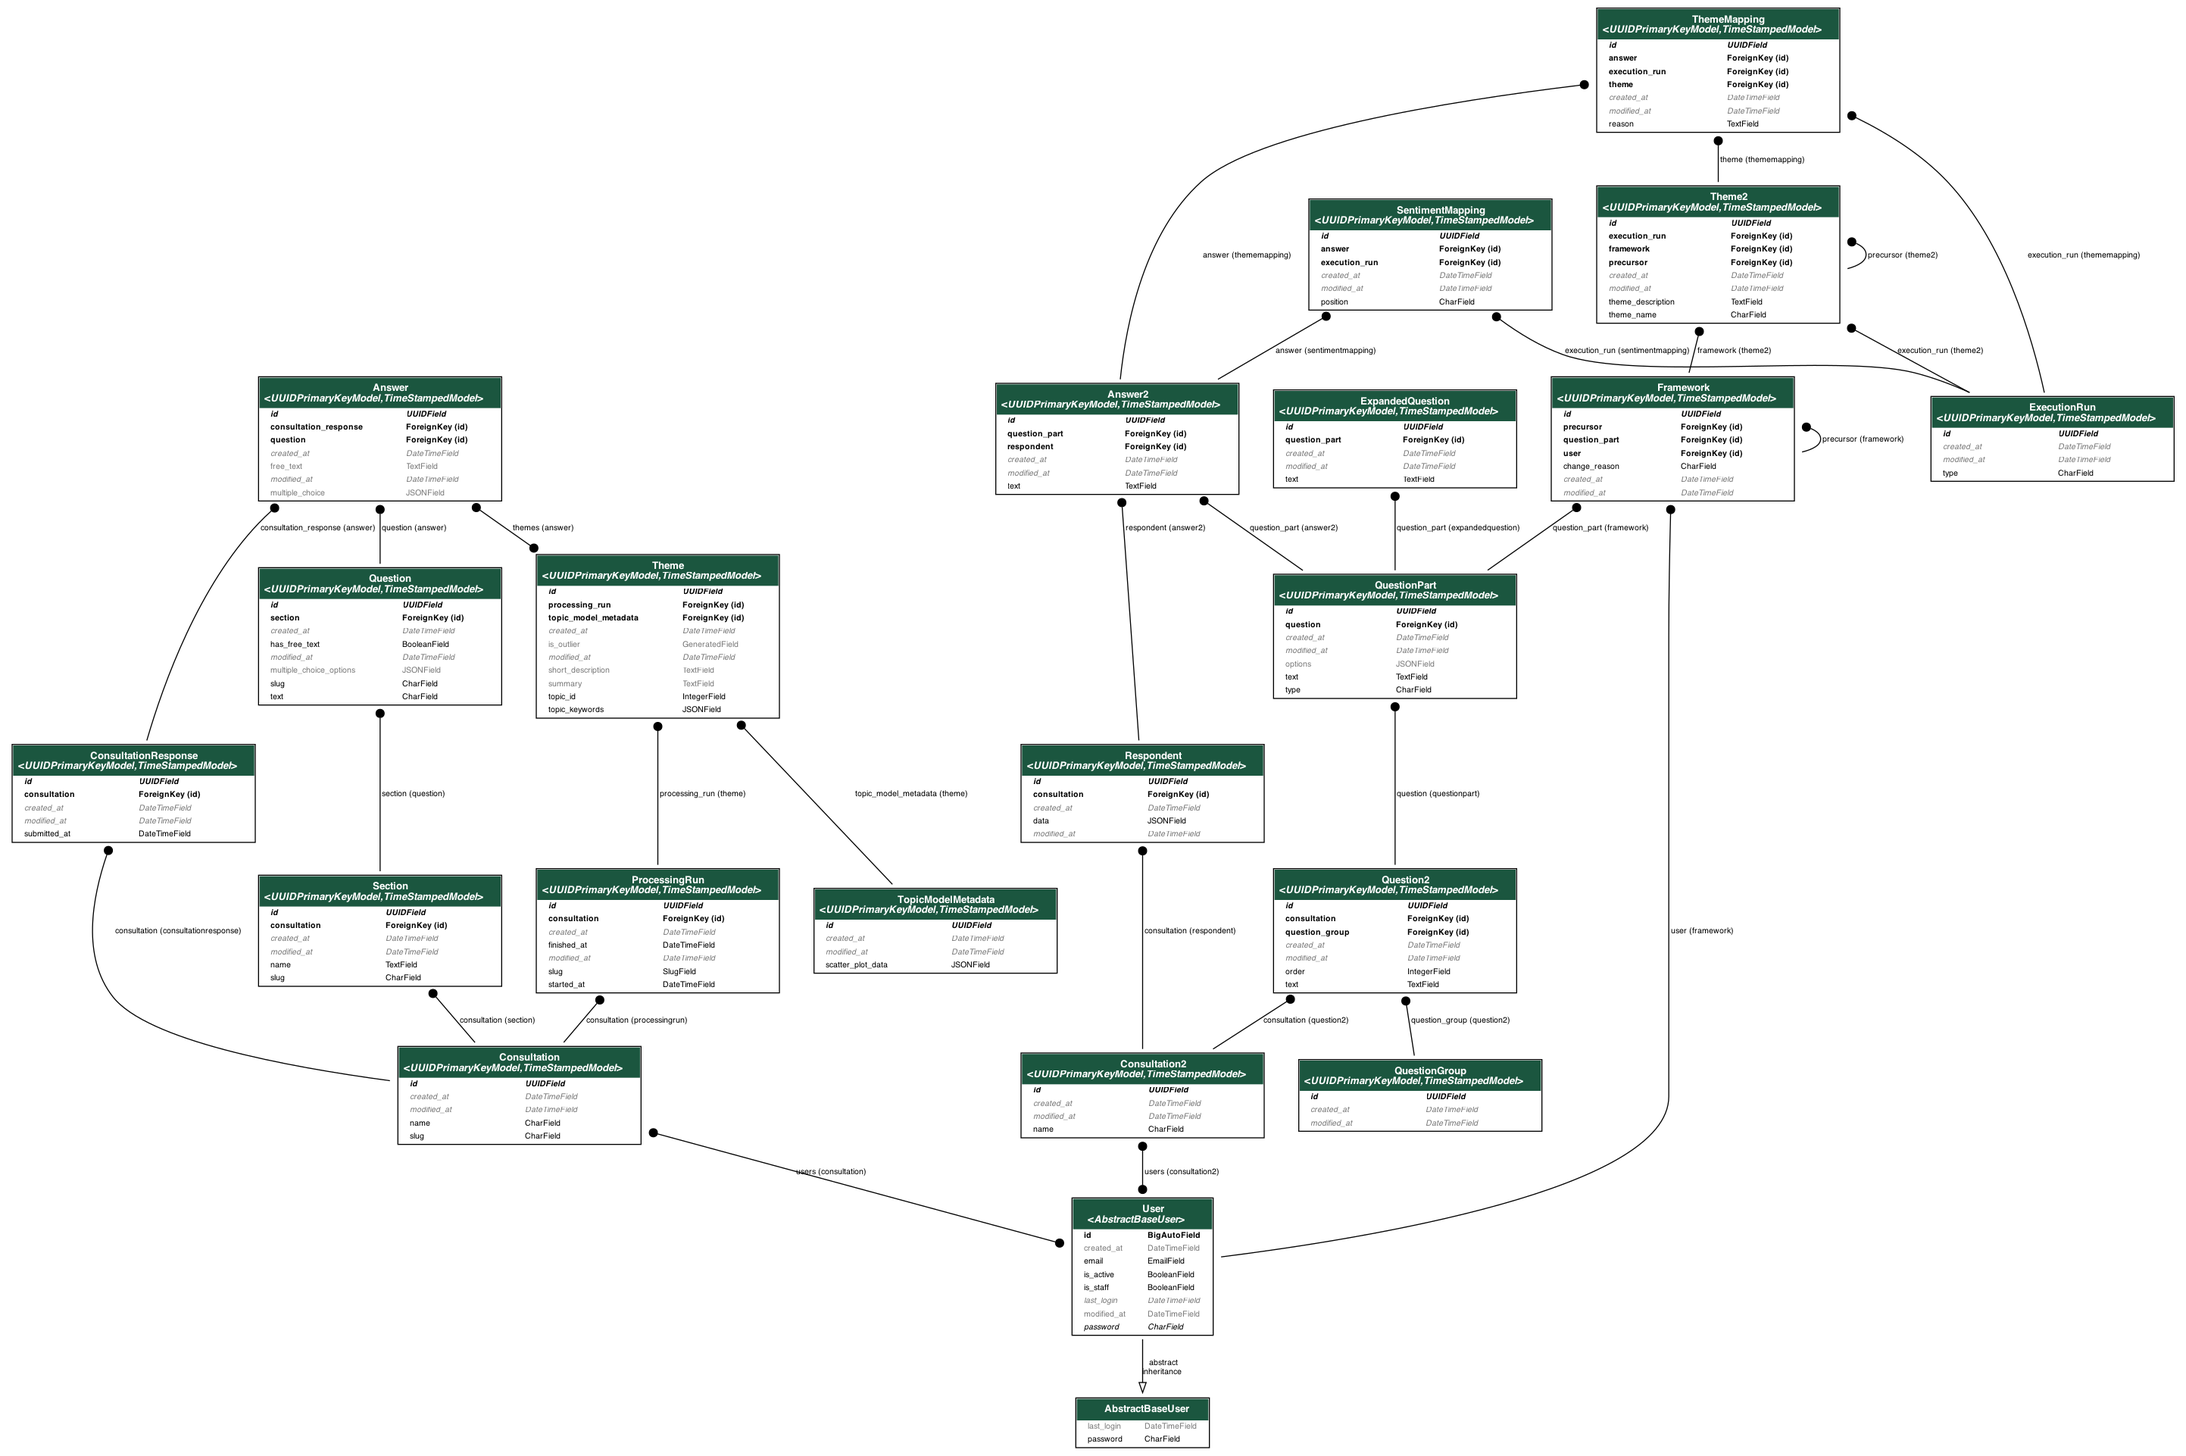
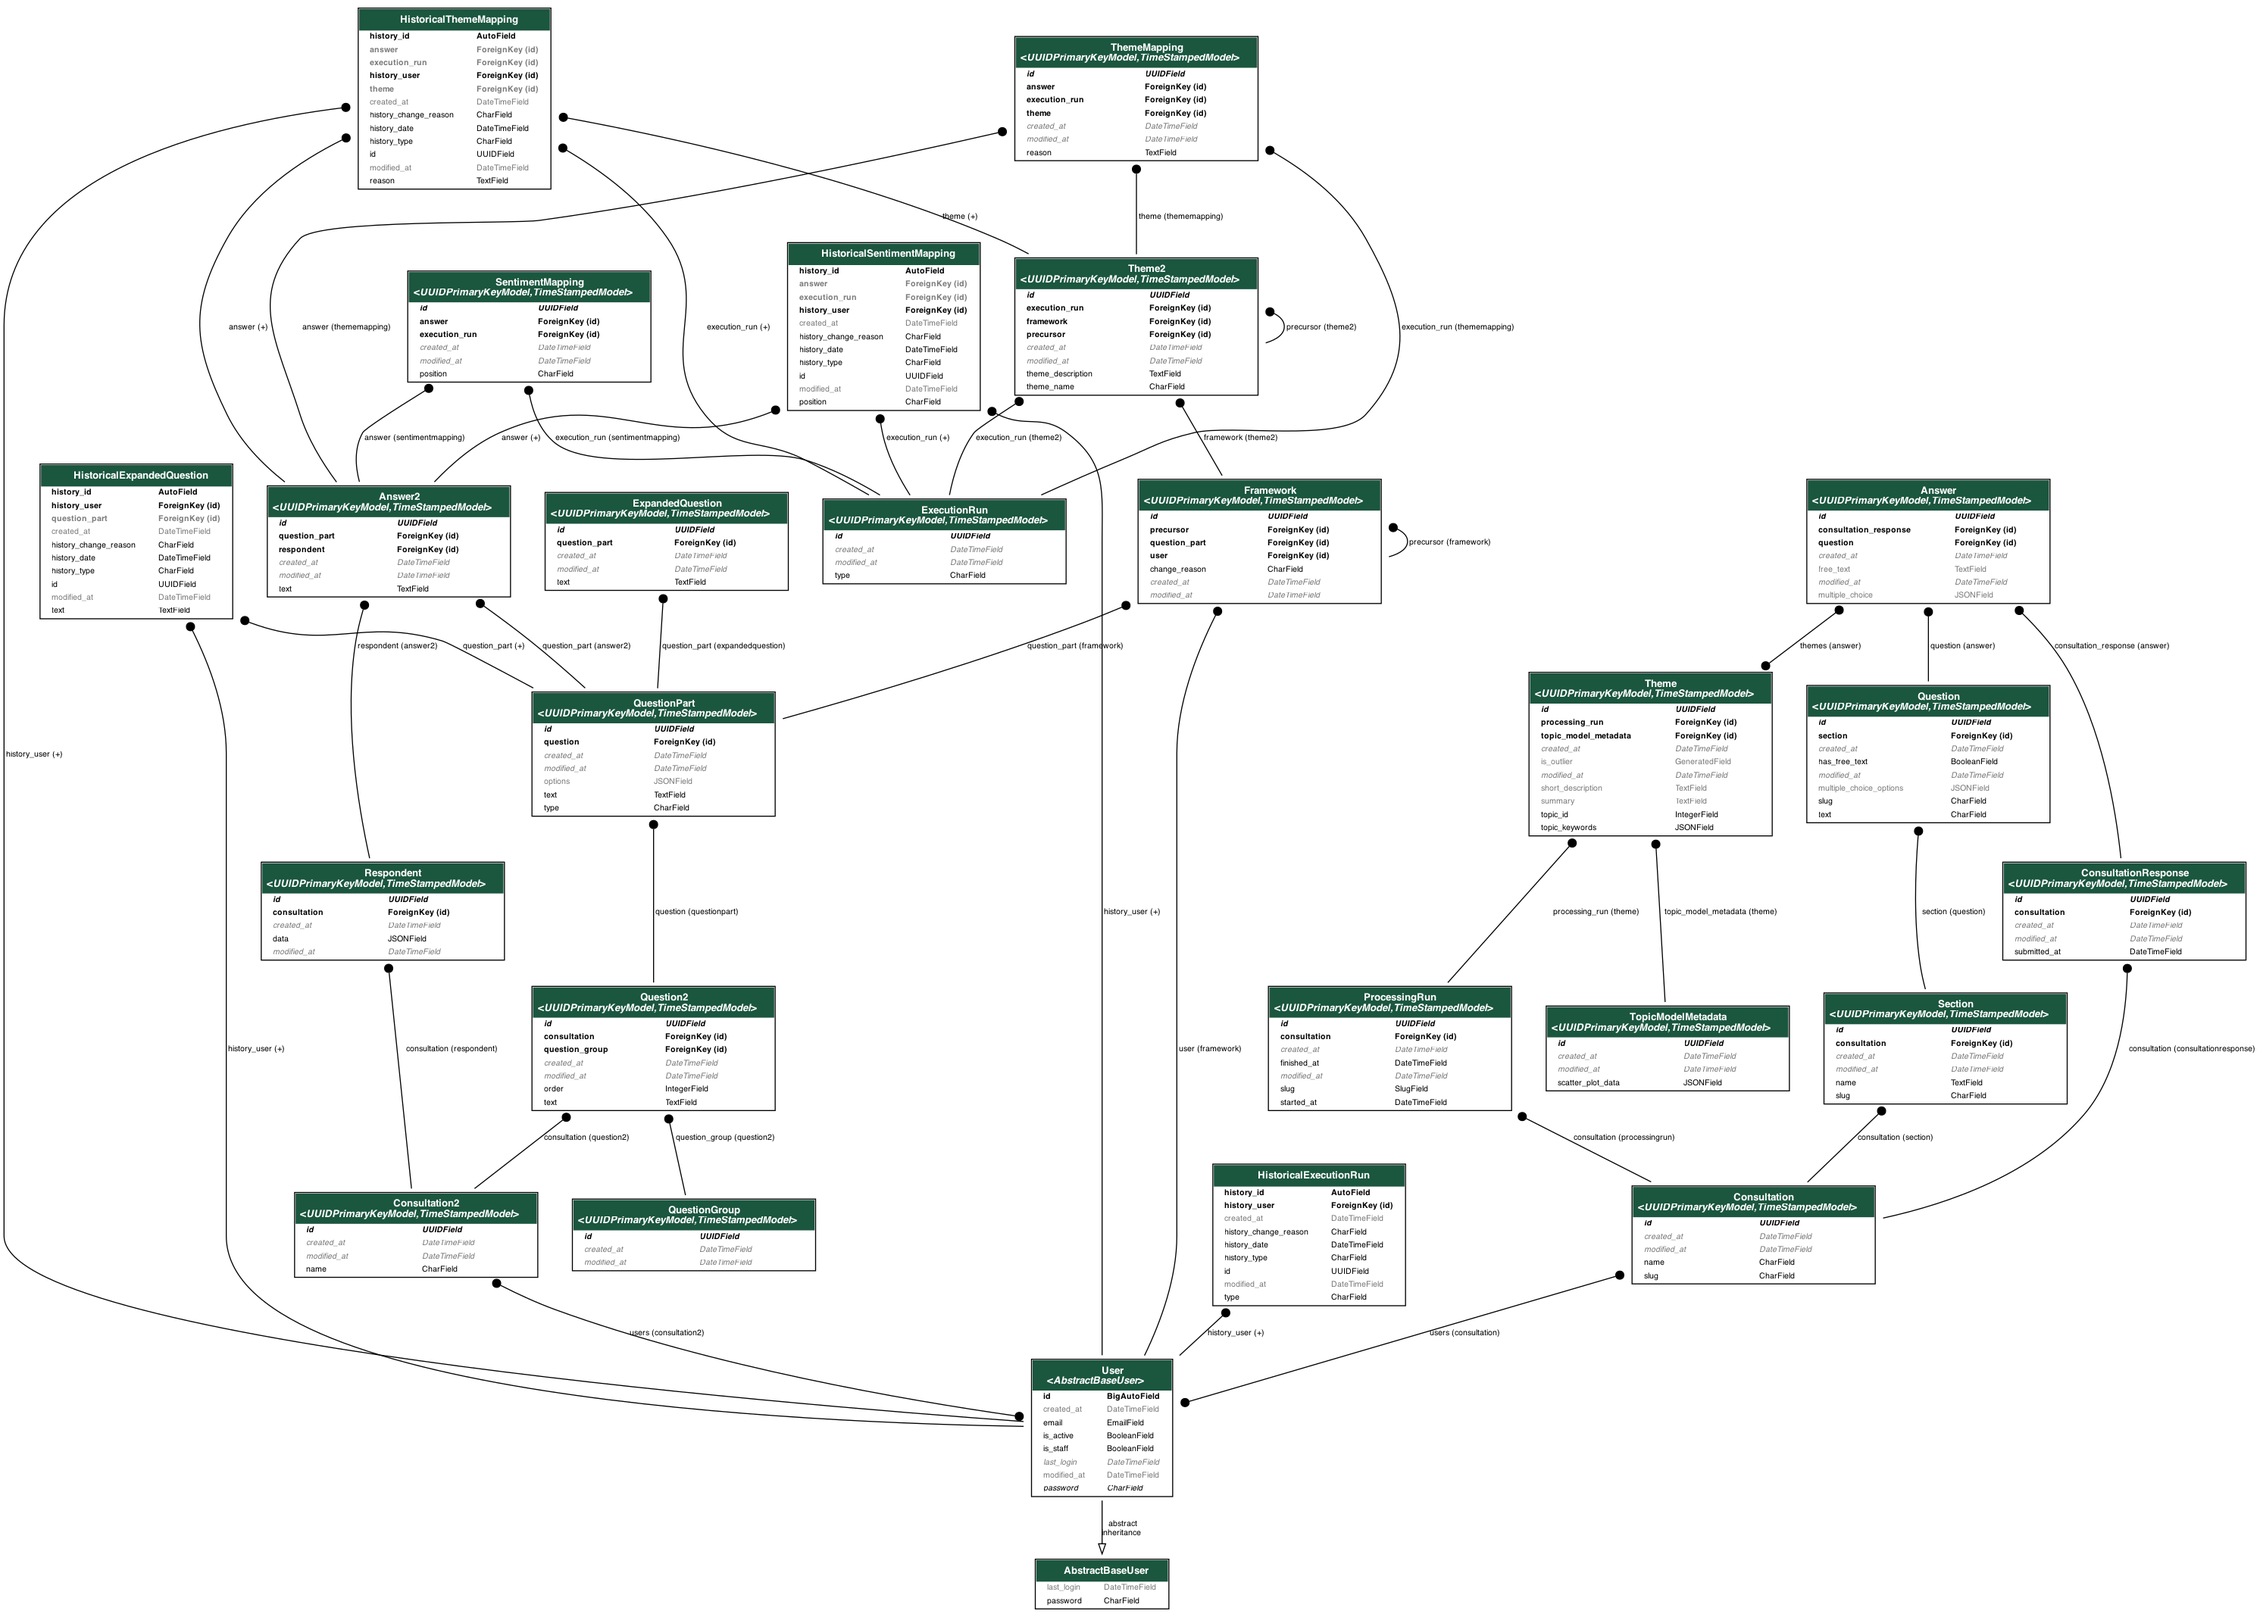
Add history to relevant models.

diff --git a/consultation_analyser/consultations/migrations/0029_historicalexecutionrun_historicalexpandedquestion_and_more.py b/consultation_analyser/consultations/migrations/0029_historicalexecutionrun_historicalexpandedquestion_and_more.py
@@ -1,0 +1,256 @@
+# Generated by Django 5.1.4 on 2024-12-30 22:37
+
+import django.db.models.deletion
+import simple_history.models
+import uuid
+from django.conf import settings
+from django.db import migrations, models
+
+
+class Migration(migrations.Migration):
+
+    dependencies = [
+        ("consultations", "0028_alter_questiongroup_options"),
+        migrations.swappable_dependency(settings.AUTH_USER_MODEL),
+    ]
+
+    operations = [
+        migrations.CreateModel(
+            name="HistoricalExecutionRun",
+            fields=[
+                (
+                    "id",
+                    models.UUIDField(db_index=True, default=uuid.uuid4, editable=False),
+                ),
+                ("created_at", models.DateTimeField(blank=True, editable=False)),
+                ("modified_at", models.DateTimeField(blank=True, editable=False)),
+                (
+                    "type",
+                    models.CharField(
+                        choices=[
+                            ("sentiment_analysis", "Sentiment Analysis"),
+                            ("theme_generation", "Theme Generation"),
+                            ("theme_mapping", "Theme Mapping"),
+                        ],
+                        max_length=32,
+                    ),
+                ),
+                ("history_id", models.AutoField(primary_key=True, serialize=False)),
+                ("history_date", models.DateTimeField(db_index=True)),
+                ("history_change_reason", models.CharField(max_length=100, null=True)),
+                (
+                    "history_type",
+                    models.CharField(
+                        choices=[("+", "Created"), ("~", "Changed"), ("-", "Deleted")],
+                        max_length=1,
+                    ),
+                ),
+                (
+                    "history_user",
+                    models.ForeignKey(
+                        null=True,
+                        on_delete=django.db.models.deletion.SET_NULL,
+                        related_name="+",
+                        to=settings.AUTH_USER_MODEL,
+                    ),
+                ),
+            ],
+            options={
+                "verbose_name": "historical execution run",
+                "verbose_name_plural": "historical execution runs",
+                "ordering": ("-history_date", "-history_id"),
+                "get_latest_by": ("history_date", "history_id"),
+            },
+            bases=(simple_history.models.HistoricalChanges, models.Model),
+        ),
+        migrations.CreateModel(
+            name="HistoricalExpandedQuestion",
+            fields=[
+                (
+                    "id",
+                    models.UUIDField(db_index=True, default=uuid.uuid4, editable=False),
+                ),
+                ("created_at", models.DateTimeField(blank=True, editable=False)),
+                ("modified_at", models.DateTimeField(blank=True, editable=False)),
+                ("text", models.TextField()),
+                ("history_id", models.AutoField(primary_key=True, serialize=False)),
+                ("history_date", models.DateTimeField(db_index=True)),
+                ("history_change_reason", models.CharField(max_length=100, null=True)),
+                (
+                    "history_type",
+                    models.CharField(
+                        choices=[("+", "Created"), ("~", "Changed"), ("-", "Deleted")],
+                        max_length=1,
+                    ),
+                ),
+                (
+                    "history_user",
+                    models.ForeignKey(
+                        null=True,
+                        on_delete=django.db.models.deletion.SET_NULL,
+                        related_name="+",
+                        to=settings.AUTH_USER_MODEL,
+                    ),
+                ),
+                (
+                    "question_part",
+                    models.ForeignKey(
+                        blank=True,
+                        db_constraint=False,
+                        null=True,
+                        on_delete=django.db.models.deletion.DO_NOTHING,
+                        related_name="+",
+                        to="consultations.questionpart",
+                    ),
+                ),
+            ],
+            options={
+                "verbose_name": "historical expanded question",
+                "verbose_name_plural": "historical expanded questions",
+                "ordering": ("-history_date", "-history_id"),
+                "get_latest_by": ("history_date", "history_id"),
+            },
+            bases=(simple_history.models.HistoricalChanges, models.Model),
+        ),
+        migrations.CreateModel(
+            name="HistoricalSentimentMapping",
+            fields=[
+                (
+                    "id",
+                    models.UUIDField(db_index=True, default=uuid.uuid4, editable=False),
+                ),
+                ("created_at", models.DateTimeField(blank=True, editable=False)),
+                ("modified_at", models.DateTimeField(blank=True, editable=False)),
+                (
+                    "position",
+                    models.CharField(
+                        choices=[
+                            ("agree", "Agree"),
+                            ("disagree", "Disagree"),
+                            ("mixed", "Mixed"),
+                        ],
+                        max_length=16,
+                    ),
+                ),
+                ("history_id", models.AutoField(primary_key=True, serialize=False)),
+                ("history_date", models.DateTimeField(db_index=True)),
+                ("history_change_reason", models.CharField(max_length=100, null=True)),
+                (
+                    "history_type",
+                    models.CharField(
+                        choices=[("+", "Created"), ("~", "Changed"), ("-", "Deleted")],
+                        max_length=1,
+                    ),
+                ),
+                (
+                    "answer",
+                    models.ForeignKey(
+                        blank=True,
+                        db_constraint=False,
+                        null=True,
+                        on_delete=django.db.models.deletion.DO_NOTHING,
+                        related_name="+",
+                        to="consultations.answer2",
+                    ),
+                ),
+                (
+                    "execution_run",
+                    models.ForeignKey(
+                        blank=True,
+                        db_constraint=False,
+                        null=True,
+                        on_delete=django.db.models.deletion.DO_NOTHING,
+                        related_name="+",
+                        to="consultations.executionrun",
+                    ),
+                ),
+                (
+                    "history_user",
+                    models.ForeignKey(
+                        null=True,
+                        on_delete=django.db.models.deletion.SET_NULL,
+                        related_name="+",
+                        to=settings.AUTH_USER_MODEL,
+                    ),
+                ),
+            ],
+            options={
+                "verbose_name": "historical sentiment mapping",
+                "verbose_name_plural": "historical sentiment mappings",
+                "ordering": ("-history_date", "-history_id"),
+                "get_latest_by": ("history_date", "history_id"),
+            },
+            bases=(simple_history.models.HistoricalChanges, models.Model),
+        ),
+        migrations.CreateModel(
+            name="HistoricalThemeMapping",
+            fields=[
+                (
+                    "id",
+                    models.UUIDField(db_index=True, default=uuid.uuid4, editable=False),
+                ),
+                ("created_at", models.DateTimeField(blank=True, editable=False)),
+                ("modified_at", models.DateTimeField(blank=True, editable=False)),
+                ("reason", models.TextField()),
+                ("history_id", models.AutoField(primary_key=True, serialize=False)),
+                ("history_date", models.DateTimeField(db_index=True)),
+                ("history_change_reason", models.CharField(max_length=100, null=True)),
+                (
+                    "history_type",
+                    models.CharField(
+                        choices=[("+", "Created"), ("~", "Changed"), ("-", "Deleted")],
+                        max_length=1,
+                    ),
+                ),
+                (
+                    "answer",
+                    models.ForeignKey(
+                        blank=True,
+                        db_constraint=False,
+                        null=True,
+                        on_delete=django.db.models.deletion.DO_NOTHING,
+                        related_name="+",
+                        to="consultations.answer2",
+                    ),
+                ),
+                (
+                    "execution_run",
+                    models.ForeignKey(
+                        blank=True,
+                        db_constraint=False,
+                        null=True,
+                        on_delete=django.db.models.deletion.DO_NOTHING,
+                        related_name="+",
+                        to="consultations.executionrun",
+                    ),
+                ),
+                (
+                    "history_user",
+                    models.ForeignKey(
+                        null=True,
+                        on_delete=django.db.models.deletion.SET_NULL,
+                        related_name="+",
+                        to=settings.AUTH_USER_MODEL,
+                    ),
+                ),
+                (
+                    "theme",
+                    models.ForeignKey(
+                        blank=True,
+                        db_constraint=False,
+                        null=True,
+                        on_delete=django.db.models.deletion.DO_NOTHING,
+                        related_name="+",
+                        to="consultations.theme2",
+                    ),
+                ),
+            ],
+            options={
+                "verbose_name": "historical theme mapping",
+                "verbose_name_plural": "historical theme mappings",
+                "ordering": ("-history_date", "-history_id"),
+                "get_latest_by": ("history_date", "history_id"),
+            },
+            bases=(simple_history.models.HistoricalChanges, models.Model),
+        ),
+    ]

diff --git a/consultation_analyser/consultations/models.py b/consultation_analyser/consultations/models.py
@@ -7,9 +7,11 @@ import pydantic
 from django.core.exceptions import ValidationError
 from django.core.validators import BaseValidator
 from django.db import connection, models
+from simple_history.models import HistoricalRecords
 
 from consultation_analyser.authentication.models import User
 from consultation_analyser.consultations import public_schema
+
 
 faker = _faker.Faker()
 
@@ -391,7 +393,8 @@ class ExpandedQuestion(UUIDPrimaryKeyModel, TimeStampedModel):
     question_part = models.ForeignKey(QuestionPart, on_delete=models.CASCADE)
     text = models.TextField()
 
-    # TODO - add history
+    history = HistoricalRecords()
+
     class Meta(UUIDPrimaryKeyModel.Meta, TimeStampedModel.Meta):
         pass
 
@@ -423,7 +426,8 @@ class ExecutionRun(UUIDPrimaryKeyModel, TimeStampedModel):
 
     type = models.CharField(max_length=32, choices=TaskType.choices)
     # TODO - add metadata e.g. langfuse_id
-    # TODO - add history
+
+    history = HistoricalRecords()
 
     class Meta(UUIDPrimaryKeyModel.Meta, TimeStampedModel.Meta):
         pass
@@ -468,7 +472,7 @@ class ThemeMapping(UUIDPrimaryKeyModel, TimeStampedModel):
     reason = models.TextField()
     execution_run = models.ForeignKey(ExecutionRun, on_delete=models.CASCADE)
 
-    # TODO - add history
+    history = HistoricalRecords()
 
     class Meta(UUIDPrimaryKeyModel.Meta, TimeStampedModel.Meta):
         pass
@@ -484,7 +488,7 @@ class SentimentMapping(UUIDPrimaryKeyModel, TimeStampedModel):
     execution_run = models.ForeignKey(ExecutionRun, on_delete=models.CASCADE)
     position = models.CharField(max_length=16, choices=PositionType.choices)
 
-    # TODO - add history
+    history = HistoricalRecords()
 
     class Meta(UUIDPrimaryKeyModel.Meta, TimeStampedModel.Meta):
         pass

diff --git a/consultation_analyser/settings/base.py b/consultation_analyser/settings/base.py
@@ -52,6 +52,7 @@ INSTALLED_APPS = [
     "crispy_forms_gds",
     "django.contrib.humanize",
     "django_rq",
+    "simple_history"
 ]
 
 
@@ -68,6 +69,7 @@ MIDDLEWARE = [
     "django.middleware.clickjacking.XFrameOptionsMiddleware",
     "waffle.middleware.WaffleMiddleware",
     "consultation_analyser.middleware.SupportAppStaffRequiredMiddleware",
+    "simple_history.middleware.HistoryRequestMiddleware"
 ]
 
 ROOT_URLCONF = "consultation_analyser.urls"
